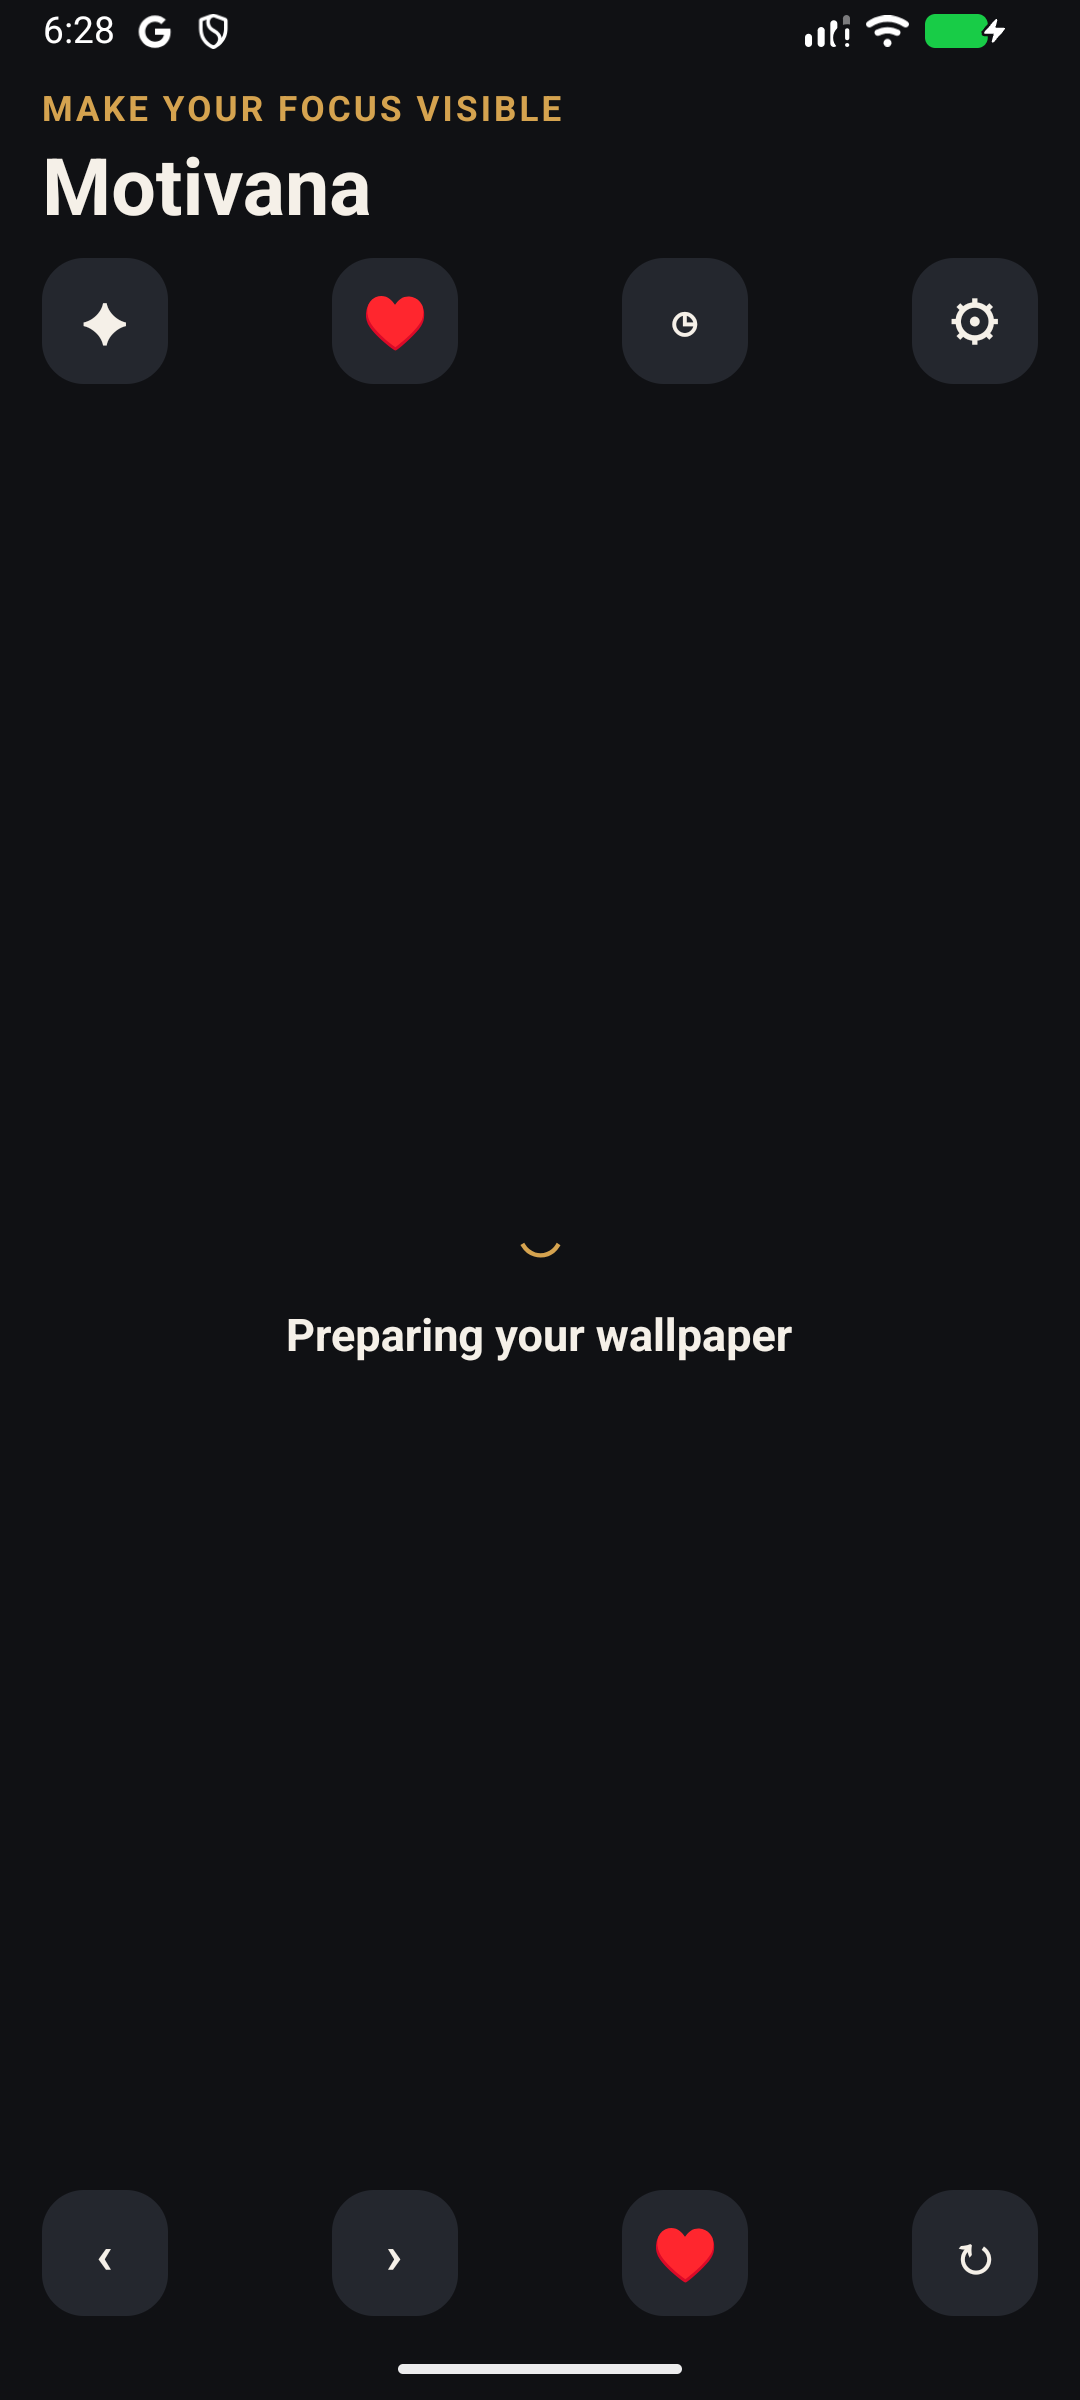
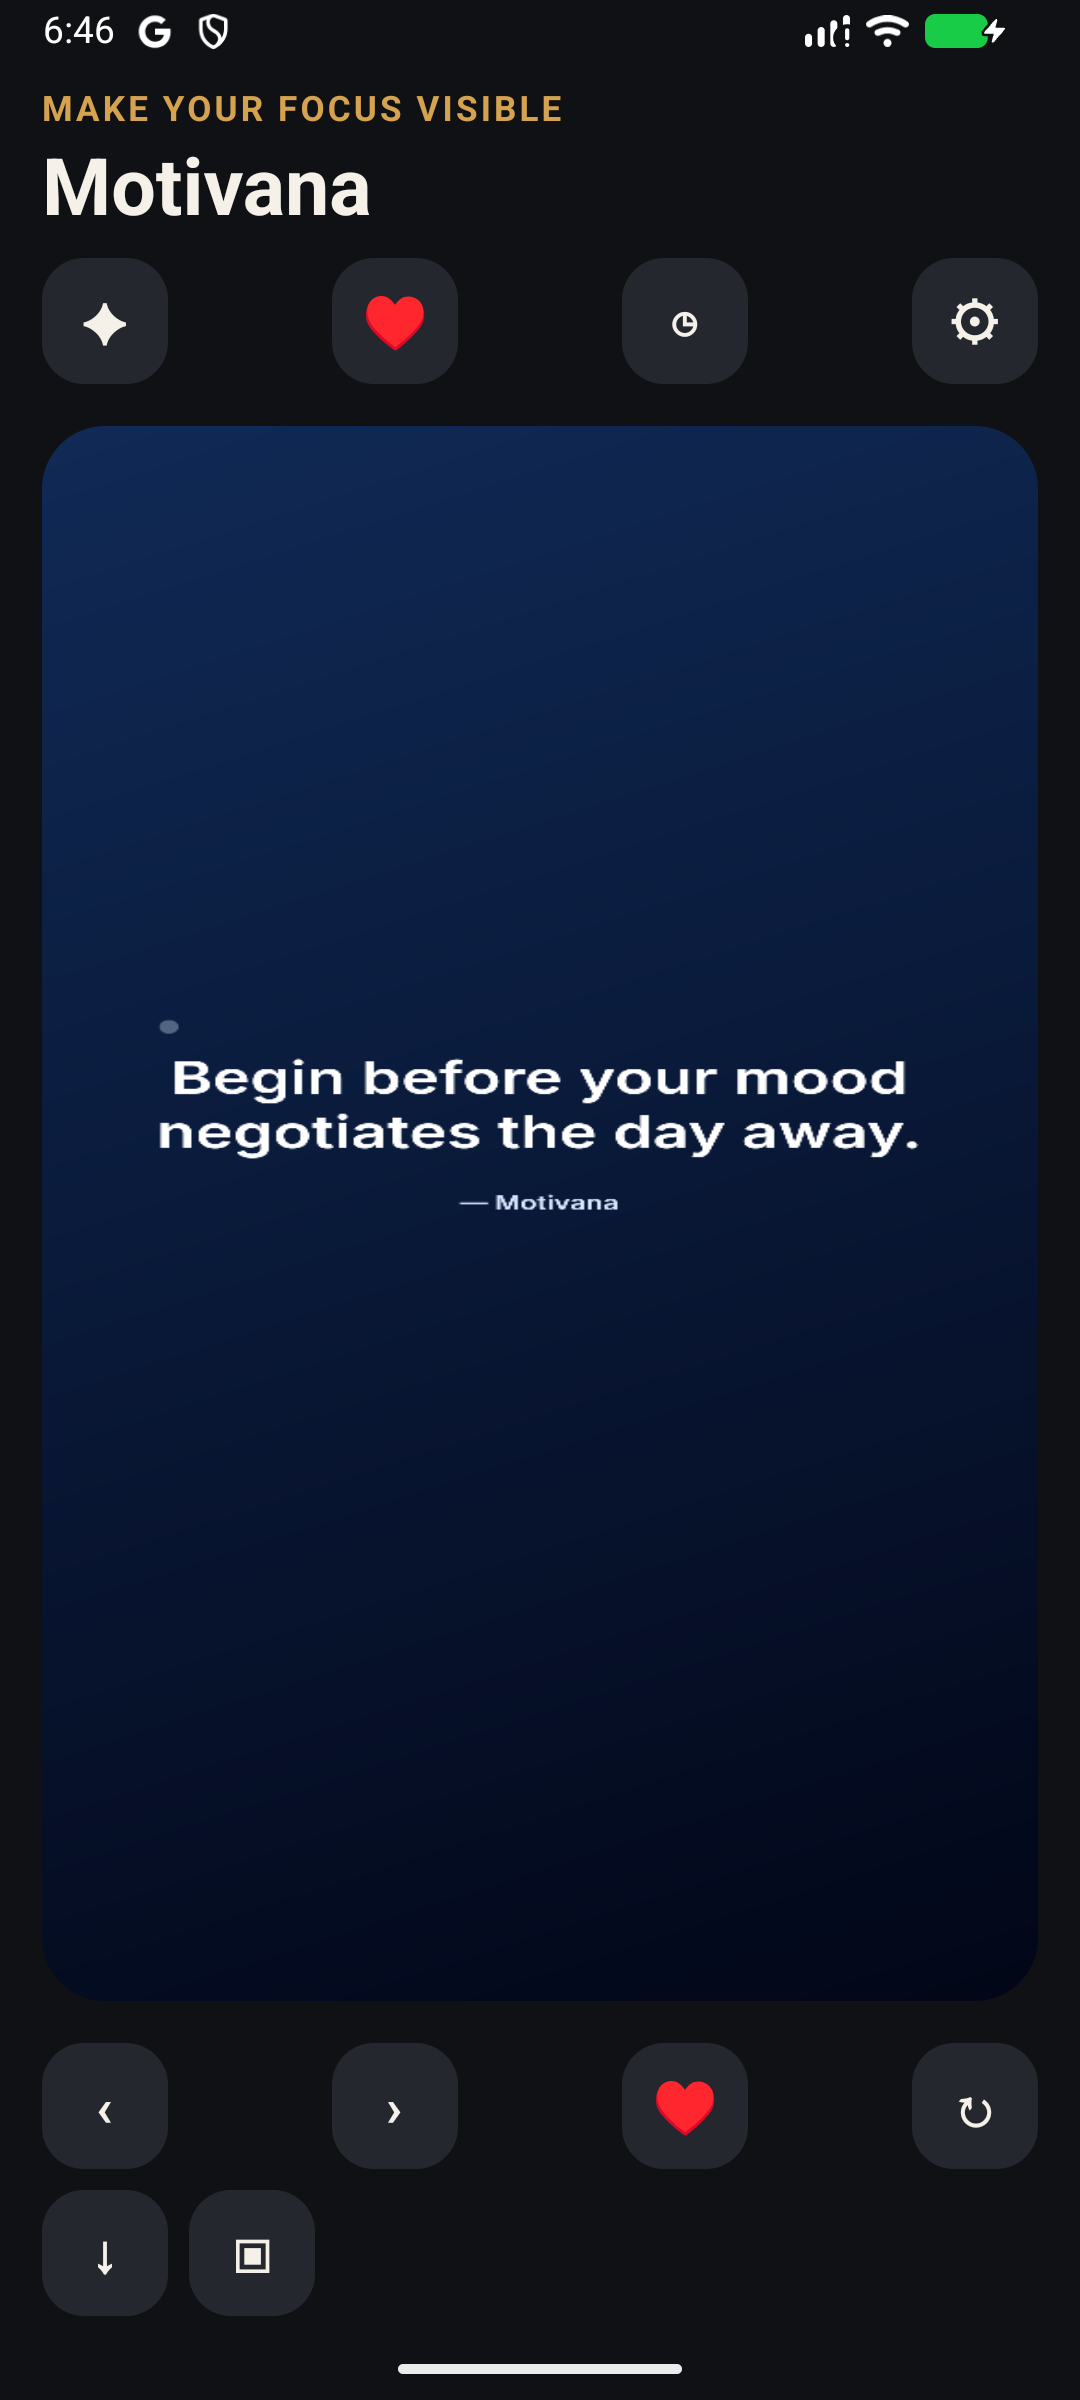
fix: harden Android smoke readiness evidence

diff --git a/scripts/__tests__/emulatorSmoke.test.ts b/scripts/__tests__/emulatorSmoke.test.ts
@@ -2,6 +2,7 @@ import {
   chmodSync,
   existsSync,
   mkdtempSync,
+  readFileSync,
   rmSync,
   writeFileSync,
 } from 'node:fs';
@@ -19,6 +20,7 @@ type FakeAdbMode =
   | 'offline'
   | 'missing-activity'
   | 'delayed-node'
+  | 'loading'
   | 'fatal-log';
 
 function createFakeAdb(directory: string, mode: FakeAdbMode): string {
@@ -42,6 +44,10 @@ if [[ "$1" == "exec-out" && "$2" == "screencap" ]]; then
   exit 0
 fi
 if [[ "$1" == "exec-out" && "$2" == "cat" ]]; then
+  if [[ "$mode" == "loading" ]]; then
+    printf '<hierarchy><node text="Motivana" content-desc="Motivana" /><node text="Preparing your wallpaper" content-desc="" /></hierarchy>\\n'
+    exit 0
+  fi
   if [[ "$mode" == "delayed-node" ]]; then
     state_file="${fakeAdb}.node-calls"
     calls="$(cat "$state_file" 2>/dev/null || printf 0)"
@@ -51,7 +57,7 @@ if [[ "$1" == "exec-out" && "$2" == "cat" ]]; then
       exit 0
     fi
   fi
-  printf '<hierarchy><node text="Motivana" content-desc="Motivana" /></hierarchy>\\n'
+  printf '<hierarchy><node text="Motivana" content-desc="Motivana" /><node text="" content-desc="Wallpaper preview" /><node text="" content-desc="Save wallpaper" /><node text="" content-desc="Set wallpaper" /></hierarchy>\\n'
   exit 0
 fi
 if [[ "$1" == "logcat" ]]; then
@@ -109,8 +115,11 @@ test('captures sanitized evidence after a package-scoped happy-path smoke run', 
   try {
     expect(run.result.status).toBe(0);
     expect(existsSync(join(run.artifacts, 'home.png'))).toBe(true);
-    expect(existsSync(join(run.artifacts, 'window.xml'))).toBe(true);
-    expect(existsSync(join(run.artifacts, 'logcat.txt'))).toBe(true);
+    expect(existsSync(join(run.artifacts, 'window.xml'))).toBe(false);
+    expect(existsSync(join(run.artifacts, 'logcat.txt'))).toBe(false);
+    expect(readFileSync(join(run.artifacts, 'summary.txt'), 'utf8')).toMatch(
+      /ready=true/,
+    );
   } finally {
     clean(run);
   }
@@ -121,6 +130,18 @@ test('waits for the loaded Motivana accessibility node after MainActivity appear
   try {
     expect(run.result.status).toBe(0);
     expect(existsSync(join(run.artifacts, 'home.png'))).toBe(true);
+  } finally {
+    clean(run);
+  }
+});
+
+test('rejects a persistent loading screen even when the header is visible', () => {
+  const run = runSmoke('loading', '1');
+  try {
+    expect(run.result.status).not.toBe(0);
+    expect(`${run.result.stdout}${run.result.stderr}`).toMatch(
+      /remained on loading|did not become ready/i,
+    );
   } finally {
     clean(run);
   }

diff --git a/docs/QA_CHECKLIST.md b/docs/QA_CHECKLIST.md
@@ -11,9 +11,10 @@ Expo SDK 57, arm64 debug APK (98 MiB)
 
 - [x] Clean install and cold launch: `scripts/emulator-smoke.sh` installed
   only the app package, cleared only its data, loaded Metro through ADB reverse,
-  found the real `Motivana` node, found no package fatal exception, and created
-  [smoke evidence](../artifacts/qa/smoke/summary.txt) plus a
-  [1080×2400 capture](../artifacts/qa/smoke/home.png).
+  required the rendered `Wallpaper preview`, `Save wallpaper`, and `Set
+  wallpaper` actions, rejected a persistent loading screen, found no package
+  fatal exception, and created [smoke evidence](../artifacts/qa/smoke/summary.txt)
+  plus a [ready 1080×2400 capture](../artifacts/qa/smoke/home.png).
 - [x] Accessibility: Home includes Motivana, wallpaper preview, quote controls,
   save/set, and route labels. Automation exposes status, interval/target,
   enable/save, and debug-run labels.
@@ -38,10 +39,14 @@ Expo SDK 57, arm64 debug APK (98 MiB)
   user prompt; denied and permanent-denial/Open Settings branches are exercised
   by `src/services/__tests__/mediaLibrary.test.ts` rather than fabricated from
   unrelated emulator permissions.
-- [x] Wallpaper targets: capabilities exposed Home, Lock, and Both. This
-  scoped emulator run applied Lock (`mWhich=2`, `SET_STATIC`) and Both
-  (`mWhich=3`, `SET_STATIC`); see [Lock](../artifacts/qa/screens/lock-apply.png)
-  and [Both](../artifacts/qa/screens/both-apply.png). Home is included by Both.
+- [x] Wallpaper targets: capabilities exposed Home, Lock, and Both. The scoped
+  emulator assertions record fresh static target state for Home (`mWhich=1`),
+  Lock (`mWhich=2`), and Both (`mWhich=3`) in
+  [the sanitized dumpsys summary](../artifacts/qa/wallpaper-targets.txt). See
+  [Lock UI](../artifacts/qa/screens/lock-apply.png),
+  [Both UI](../artifacts/qa/screens/both-apply.png), and the required
+  [launcher-after-Home capture](../artifacts/qa/screens/launcher-after-home.png).
+  Home is included by Both.
 - [x] Automation: enabled 6h Home, invoked debug rotation in foreground,
   updated to 12h, and cancelled; UI reported a last apply and the schedule
   status transitions. Evidence: [enabled](../artifacts/qa/screens/automation-enabled-6h.png),

diff --git a/docs/ANDROID_AUTOMATION.md b/docs/ANDROID_AUTOMATION.md
@@ -45,11 +45,20 @@ Debug builds expose **Run rotation now**. Release Kotlin rejects this path with
 
 ## Stable errors and recovery
 
-UI/native boundaries use safe codes such as `INVALID_CONFIGURATION`,
-`EMPTY_FAVORITES`, `LOCK_UNSUPPORTED`, `FONT_MISSING`, `ASSET_INVALID`,
-`ASSET_IO`, `RENDER_FAILED`, `SYSTEM_FAILED`, `SCHEDULER_FAILED`, and
-`DEBUG_ONLY`. The UI keeps the active composition and offers retry/correction
-where appropriate. It does not surface raw Android exception messages.
+The public app error vocabulary is `PERMISSION_DENIED`, `FILE_NOT_FOUND`,
+`SAVE_FAILED`, `INVALID_TARGET`, `WALLPAPER_NOT_ALLOWED`, `LOCK_UNSUPPORTED`,
+`DECODE_FAILED`, `APPLY_FAILED`, `NOT_IMPLEMENTED`, `DEBUG_ONLY`,
+`INVALID_CONFIGURATION`, `EMPTY_FAVORITES`, `CONFIGURE_FAILED`,
+`ASSET_FAILED`, `ASSET_INVALID`, `ASSET_IO`, `FONT_MISSING`, `RENDER_FAILED`,
+`SCHEDULER_FAILED`, and `SYSTEM_FAILED`. These are safe UI/native boundary
+codes; the UI keeps the active composition and does not surface raw Android
+exception messages.
+
+The persisted worker `errorCode` is deliberately narrower:
+`INVALID_CONFIGURATION`, `EMPTY_FAVORITES`, `LOCK_UNSUPPORTED`, `FONT_MISSING`,
+`ASSET_INVALID`, `ASSET_IO`, `SYSTEM_FAILED`, `RENDER_FAILED`, `APPLY_FAILED`,
+and `NO_ELIGIBLE_QUOTES`. `CONFIGURE_FAILED` and `SCHEDULER_FAILED` are public
+configuration/scheduling outcomes, not stored worker status values.
 
 Force-stopping an app suppresses its jobs until Android permits execution again.
 Doze, battery restrictions, OEM task killers, reboot, app update, screen lock,

diff --git a/artifacts/qa/README.md b/artifacts/qa/README.md
@@ -6,7 +6,9 @@ exports, package paths, emulator install-session data, credentials, and Task 6/7
 scratch artifacts.
 
 `smoke/summary.txt` and `smoke/home.png` were generated on 2026-08-24 by the
-arm64 debug APK smoke run. `screens/` is the same scoped API 37 emulator matrix:
+arm64 debug APK smoke run after its preview/action ready check. The
+`wallpaper-targets.txt` summary contains only the scoped target assertions from
+`dumpsys wallpaper`. `screens/` is the same scoped API 37 emulator matrix:
 Home/Customize/Favorites persistence, Automation, supported target application,
-and 1.3× font scale. The checklist documents any Task 6/7 evidence reused by
-provenance rather than copying raw data.
+launcher-after-Home, and 1.3× font scale. The checklist documents any Task 6/7
+evidence reused by provenance rather than copying raw data.

diff --git a/README.md b/README.md
@@ -71,8 +71,10 @@ scripts/emulator-smoke.sh android/app/build/outputs/apk/debug/app-debug.apk
 
 `scripts/emulator-smoke.sh` installs only `org.haina2410.motivana`, clears
 only that package for a clean launch, starts or reuses Metro, waits for the
-actual Motivana accessibility node, saves a PNG screenshot, and rejects a
-package-scoped fatal exception or missing-script screen. Its output defaults to
+rendered wallpaper preview plus save/set actions, rejects a persistent loading,
+package-scoped fatal exception, or missing-script screen, and saves a PNG
+screenshot. Raw ADB diagnostics live in a trap-cleaned temporary directory;
+its committed output is the concise summary and screenshot in
 `artifacts/qa/smoke`.
 
 The app and local wallpaper module lint tasks are run explicitly. The generated
